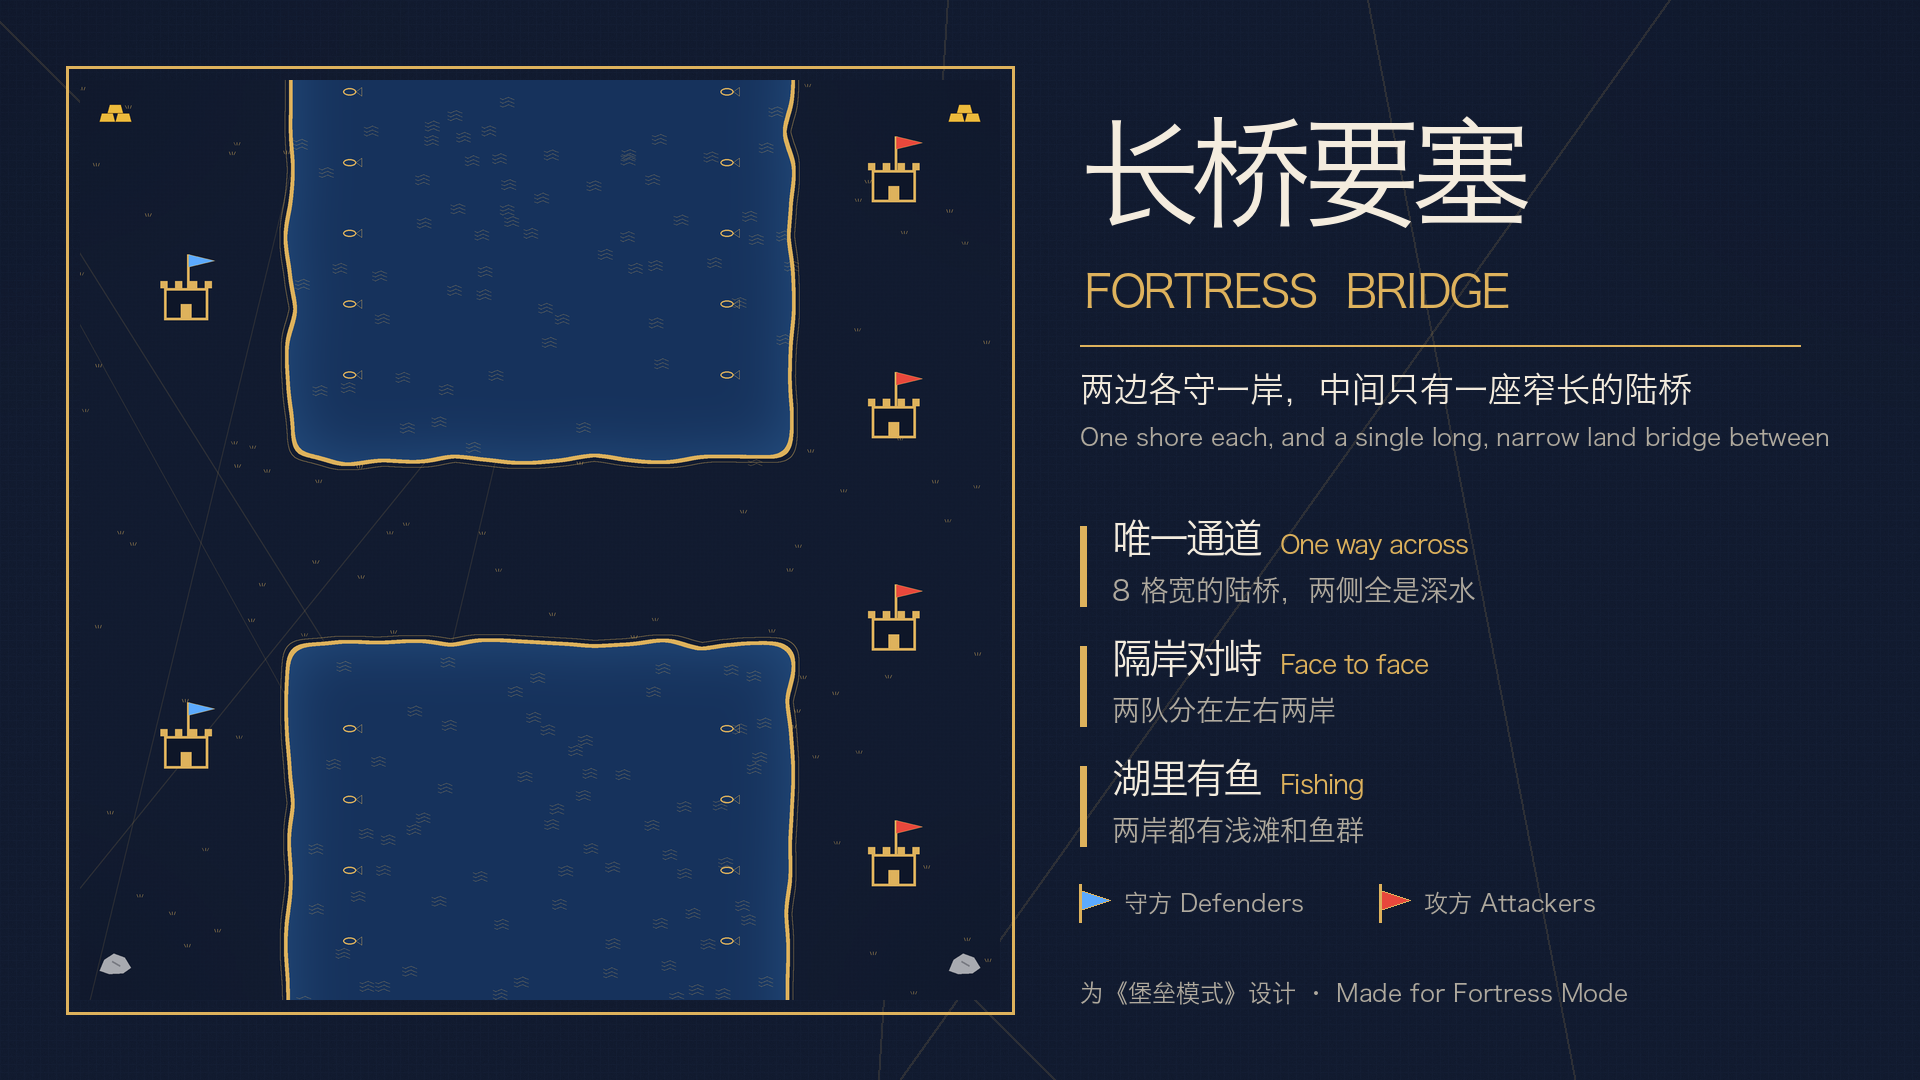
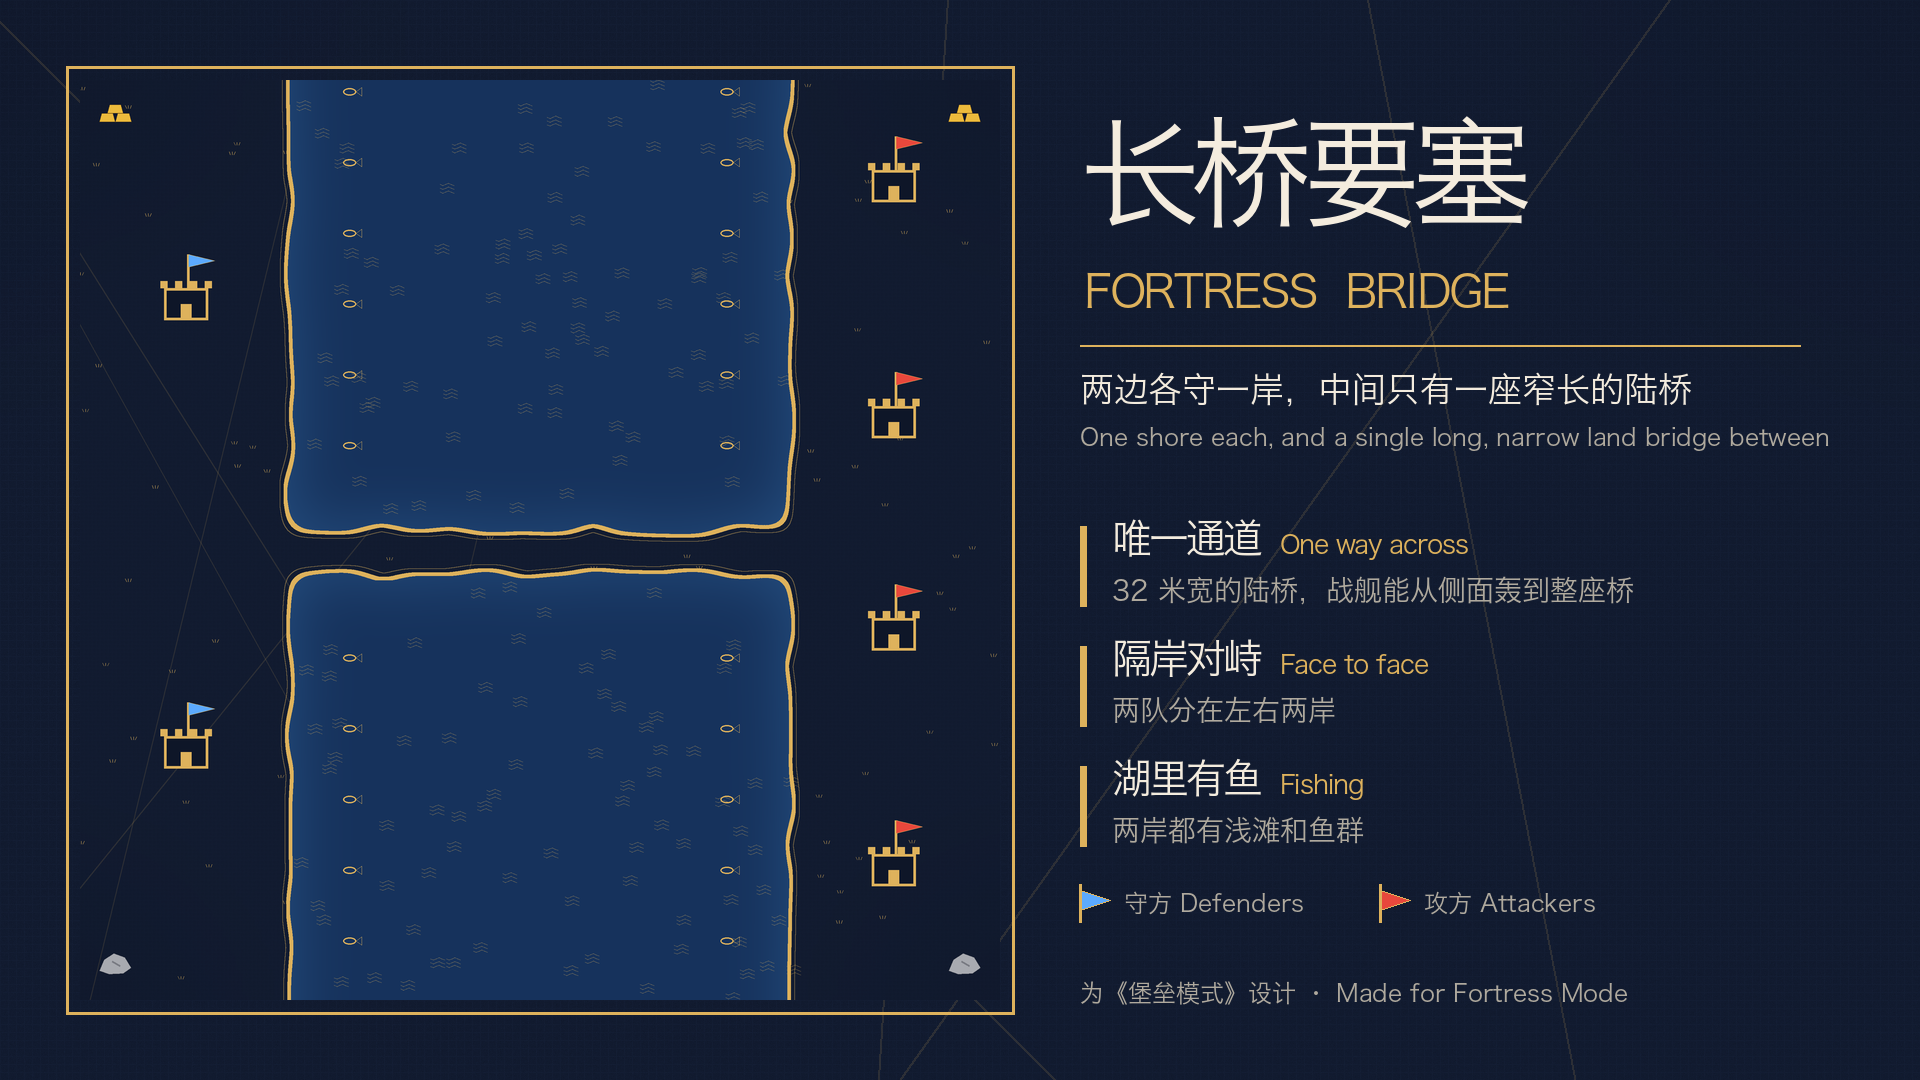
Fortress Bridge: narrow the bridge to 32 m
A warship on one side should cover the whole bridge; the baochuan's
cannons reach 36 m, so the bridge is two squares wide instead of eight.

diff --git a/maps/tools/install_project.py b/maps/tools/install_project.py
@@ -44,7 +44,7 @@ TEXTS = {
         "两队各守一岸，中间只有一座窄长的陆桥，两侧全是深水。为《堡垒模式》设计，也可当普通团队图。 / Two teams on opposite shores, joined only by one long, narrow land bridge with deep water on both sides. Made for Fortress Mode; works as any team game.",
         "1 号位所在的队伍在左岸，其他队伍在右岸 / The first player's team takes the left shore, everyone else the right",
         "真人放同一队并占 1 号位，AI 放另一队 / Put humans on one team, with you in slot 1, and AIs on the other",
-        "两边各守一岸，中间只有一座约 128 米宽的陆桥，两侧是深水。两岸都有浅滩和鱼群。 / One shore each and a single land bridge about 128 m wide between, with deep water on both sides. Both shores have shallows and fish.",
+        "两边各守一岸，中间只有一座约 32 米宽的陆桥，两侧是深水，停在一侧的战舰能打到整座桥。两岸都有浅滩和鱼群。 / One shore each and a single land bridge about 32 m wide between, with deep water on both sides; a warship on one side covers all of it. Both shores have shallows and fish.",
     ),
     "fortress_hill": (
         "大家一起守护城河围着的中央小山，每位守方一对相邻的陆桥。为《堡垒模式》设计，也可当普通团队图。 / Hold the moated hill in the middle together, with a pair of close land bridges for each defender. Made for Fortress Mode; works as any team game.",

diff --git a/maps/tools/make_covers.py b/maps/tools/make_covers.py
@@ -45,7 +45,7 @@ MAPS = {
         "tagline": "两边各守一岸，中间只有一座窄长的陆桥",
         "tagline_en": "One shore each, and a single long, narrow land bridge between",
         "points": [
-            ("唯一通道", "One way across", "8 格宽的陆桥，两侧全是深水"),
+            ("唯一通道", "One way across", "32 米宽的陆桥，战舰能从侧面轰到整座桥"),
             ("隔岸对峙", "Face to face", "两队分在左右两岸"),
             ("湖里有鱼", "Fishing", "两岸都有浅滩和鱼群"),
         ],

diff --git a/maps/fortress_bridge/publish/DESCRIPTION.md b/maps/fortress_bridge/publish/DESCRIPTION.md
@@ -11,7 +11,7 @@
 | | |
 |---|---|
 | 阵营 | 第一位玩家所在的队伍在左岸，其他队伍在右岸 |
-| 通道 | 中间一座陆桥，约 128 米宽，两侧是深水，没有别的路 |
+| 通道 | 中间一座陆桥，约 32 米宽，两侧是深水，没有别的路；停在一侧的战舰能打到整座桥 |
 | 水域 | 上下都是深湖，走不过去；两岸都有浅滩，可以捕鱼、造码头 |
 | 资源 | 标准开局资源，两岸后方各多一座金矿和石矿 |
 
@@ -33,7 +33,7 @@
 | | |
 |---|---|
 | Sides | The first player's team takes the left shore; every other team the right |
-| Way across | One land bridge in the middle, about 128 m wide, with deep water on both sides and no other way over |
+| Way across | One land bridge in the middle, about 32 m wide, with deep water on both sides and no other way over; a warship on one side covers all of it |
 | Water | Deep lakes above and below: no wading, but both shores have shallows for fishing and docks |
 | Resources | The standard start, plus an extra gold and stone deposit at the back of each shore |
 
